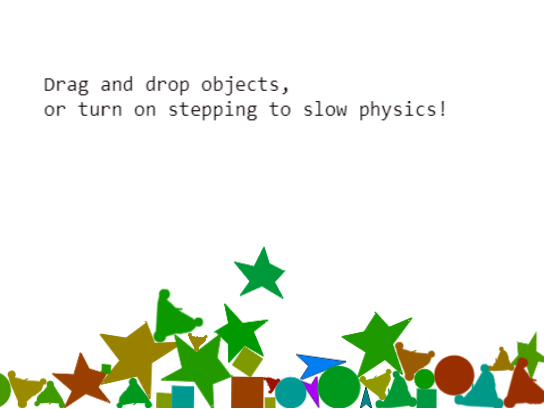
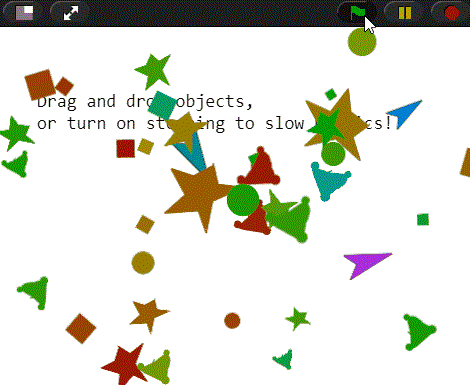
Added snap-games

diff --git a/layouts/shortcodes/button.html b/layouts/shortcodes/button.html
@@ -1,4 +1,4 @@
 <!-- layouts/shortcodes/button.html -->
-<button class="bg-transparent hover:bg-blue-500 text-blue-700 font-semibold hover:text-white py-2 px-4 border border-blue-500 hover:border-transparent rounded">
-    <a href="{{ .Get "url" }}">{{ .Get "text" }}</a>
+<button class="sc-button bg-transparent hover:bg-blue-500 text-blue-700 font-semibold hover:text-white py-2 px-4 border border-blue-500 hover:border-transparent rounded">
+    <a href="{{ .Get "url" }}" target="_blank">{{ .Get "text" }} </a>
 </button>

diff --git a/static/css/custom.css b/static/css/custom.css
@@ -10,7 +10,11 @@
     }
 }
 
-img.gif, img.gp-gif-element, figure img {
+.sc-button {
+	margin: 1rem 0 1rem 0;
+}
+
+img.gif, img.gp-gif-element, figure.gif img {
 	outline: 1px solid #ddd;
 }
 

diff --git a/content/project/snap-games/index.md b/content/project/snap-games/index.md
@@ -1,5 +1,5 @@
 ---
-title: "Snap Interact: Phsycis and Games in Snap!"
+title: "Extending Block-based Programming with Physics!"
 summary: ''
 date: 2023-08-15
 authors:
@@ -9,41 +9,45 @@ tags:
 show_featured_image: false
 ---
 
-{{< button text="Physics Demo" url="#" >}}
+Snap<em>!</em> is a block-based programming language that lets students create expressive apps and simulations easily. This is especially powerful for non-Computer-Science majors, like those in my introductor course, who may want to apply programming to solve problems in their own domains.
 
-In my introductory programming class, students make an open-ended project
+I built this extension to Snap<em>!</em> to allow students to make accurate physics simulations and physics-based games. Making more advanced products can motivate students to learn programming, while also building an intuitive understanding of physics.
 
-The outcome was a game-based curriculum, where students build Bounce!, based on a popular casual mobile game ([Okay?](https://play.google.com/store/apps/details?id=de.stollenmayer.philipp.Pop_1_1_Android)), with 10M+ downloads.
+### Science Simulations
 
-### Introductory Programming
+For example, a simple program can help students understand how the orbit of a planet is affected by its starting speed.
 
-This project is designed to teach programming basics (loops, variables, procedures, conditionals). While the game is complex, students write almost the whole thing, with only a small bit of instructor-written code to get them started and to handle the complex math of bouncing.
+{{<figure src="orbit.png" class="gif" >}}
 
-{{< figure src="bounce.png" class="gif" >}}
+{{< button text="Try the Orbit Demo" url="https://isnap.csc.ncsu.edu/public/snap-games/snap.html#present:Username=thomaswprice&ProjectName=Solar%20Sim" >}} 
 
-Bounce! uses the Snap<em>!</em> block-based programming language that lets students create expressive apps easily. Research suggests that blocks allow students to learn core programming concepts like iteration earlier, before they grapple with syntax.
+{{% callout note %}}
+If you want to see the code for any linked demo, press the {{< icon name="arrows-pointing-in" >}} button to exit full screen mode.
+{{% /callout %}}
 
-### Instructions
+The code itself is straightforward to read and edit.
 
-{{< figure src="snap.png" class="gif" >}}
+{{<figure src="orbit-code.png" >}}
 
-Bounce! contains 4 labs, teaching Iteration, Variables, Procedures and Conditionals. Each lab is broken up into manageable steps, with:
-* Learning objective(s)
-* A visual preview of the completed step
-* Textual instructions
-* Hints
-* Pair programming or buddy programming reminders
 
-Advanced students can complete bonus objectives at the end of each lesson.
+By modifying 2 lines of code, students can experiment with escape velocity to build an intuitive understanding of it.
 
-{{< figure src="instructions.png" class="gif" >}}
+{{<figure src="escape.png" class="gif" >}}
 
-Lab Instructions:
-* [Iteration](https://docs.google.com/document/d/1S_S4yy1xOqk5Uhm55gPnk5tzxt4kvyxEsb69_XmcfR8/edit#heading=h.r2a7klvsi56m)
-* [Variables](https://docs.google.com/document/d/1QaGBK32MyMpUeGdl_X6oD-sm2u6daDYOVM5zIrK9Juk/edit#heading=h.r2a7klvsi56m)
-* [Procedures](https://docs.google.com/document/d/1RhD7wPOAvWRYtSr_qrvf9blxHYt1qEyZ2bI4ZOymrNY/edit#heading=h.r2a7klvsi56m)
-* [Conditionals](https://docs.google.com/document/d/14cU1eLkVY_cK9ZcSKJBIyYZNW-ZCvyrLVIoNUiIT45E/edit#heading=h.r2a7klvsi56m)
+### Open-ended Exploration
 
-### Classroom Impact
+The physics engine, based on [matter.js](https://brm.io/matter-js/), is quite flexible, and allows students to create open-ended simulations. The extension takes care of the hard parts, like creating bounding boxes, so students can focus on their code.
 
-Bounce has been well-received in my introductory programming course, where it is supported by a [flipped classroom model](../snap-videos/), allowing students to receive hands-on support during class.  It prepares students to create their own open-ended programming project later in the semester.
+{{<figure src="physics.png" class="gif" >}}
+
+{{< button text="Try the Shapes Demo" url="https://isnap.csc.ncsu.edu/public/snap-games/snap.html#present:Username=thomaswprice&ProjectName=shapes!" >}}
+
+### Physics-based Games
+
+In my introductory programming class, students make an open-ended project that connects to their interests and addresses a problem they see in the world. Many create games, including fun and serious games. By leveraging physics, students can create more powerful games, like what they see on their phones and in their browsers.
+
+My extension also adds camera controls and the ability to save and load levels, which allows Snap<em>!</em> to make far more advanced games than would otherwise be possible -- like this this Angry Birds inspired app!
+
+{{<figure src="games.png" class="gif" >}}
+
+{{< button text="Try the Angry Birds Demo" url="https://isnap.csc.ncsu.edu/public/snap-games/snap.html#present:Username=thomaswprice&ProjectName=Angry%20Brids%20Demo" >}}

diff --git a/content/authors/admin/_index.md b/content/authors/admin/_index.md
@@ -37,7 +37,7 @@ profiles:
     url: uploads/resume.pdf
     label: Download my resume
   - icon: academicons/google-scholar
-    url: ./post/index.xml
+    url: https://scholar.google.com/citations?user=v6zJ_8cAAAAJ&hl=en
     label: Check out my publications on Google Scholar
 
 # Highlight the author in author lists? (true/false)

diff --git a/TODO.md b/TODO.md
@@ -1,0 +1,6 @@
+Each section
+* Demo buttons
+
+Contact
+Buttons CSS
+Add resume
